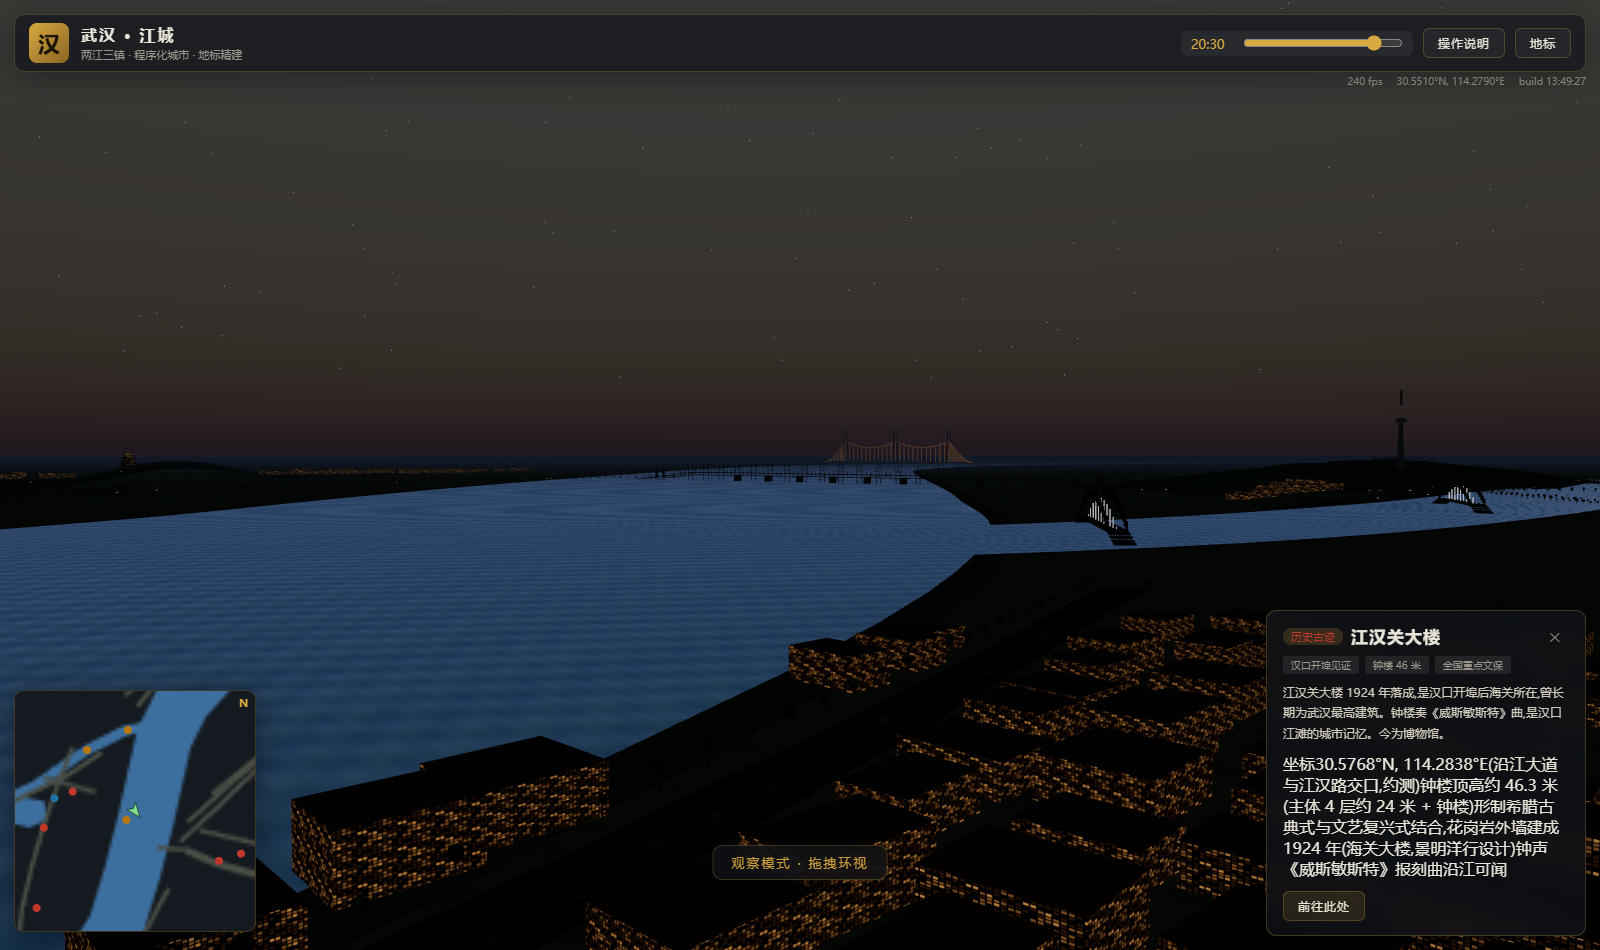
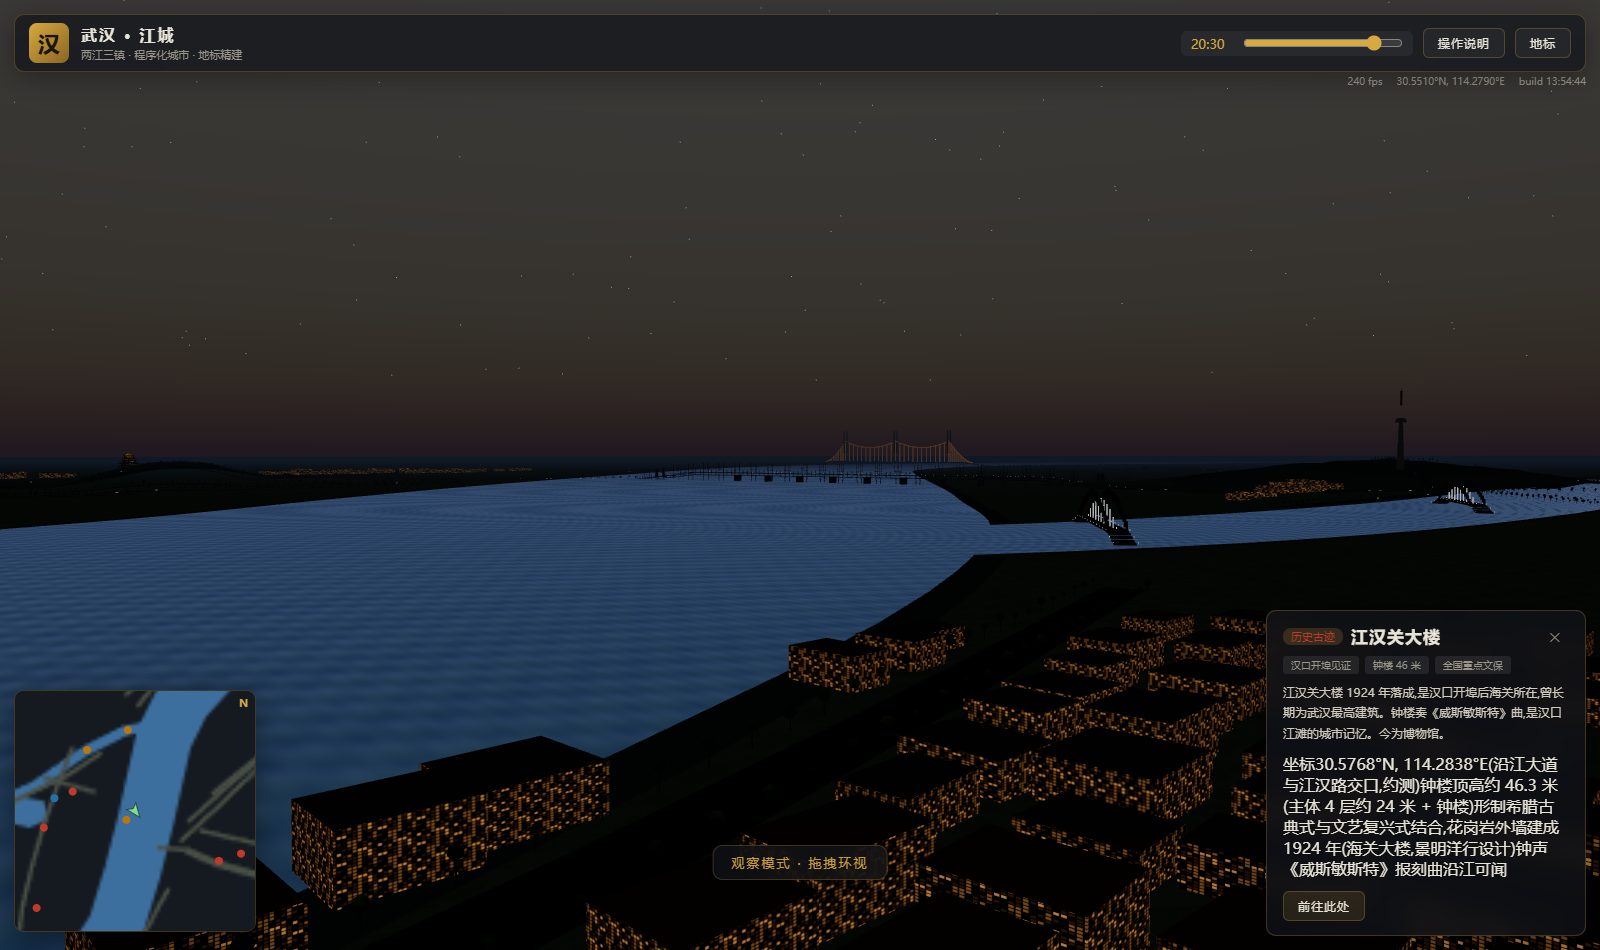
P5: 夜景打磨(路灯/桥灯/塔顶航空灯)+ README + POI 取景自适应

diff --git a/js/main.js b/js/main.js
@@ -4,7 +4,7 @@ import * as THREE from 'three';
 import { OrbitControls } from 'three/addons/OrbitControls.js';
 import { Sky } from 'three/addons/Sky.js';
 import { buildGround, buildMountains, createWaterMaterial, buildWater, buildRoads, terrainHeight } from './world.js';
-import { buildCity, buildTrees, buildCars } from './city.js';
+import { buildCity, buildTrees, buildCars, buildStreetLights } from './city.js';
 import { buildLandmarks, landmarkSites } from './landmarks.js';
 import { buildBridges } from './bridges.js';
 import { createEnvironment } from './environment.js';
@@ -25,7 +25,7 @@ const elSpeedBox = $('#speedBox');
 
 /* ==================== 全局 ==================== */
 let renderer, scene, camera, controls, sky, sunLight, hemi, moonLight, stars;
-let waterMat, waterGroup, roads, city, trees, cars, bridges, landmarks;
+let waterMat, waterGroup, roads, city, trees, cars, bridges, landmarks, lights, beacon;
 let game, hud;
 let env = null;
 let timeHours = 15, autoTime = false;
@@ -143,6 +143,8 @@ function applyTime(hours) {
   city?.setNight(s.night);
   cars?.setNight(s.night);
   landmarks?.setNight(s.night);
+  lights?.setNight(s.night);
+  bridges?.setNight(s.night);
 
   scene.fog.color.copy(FOG_DAY.clone().lerp(FOG_NIGHT, clamp(s.night + s.dusk * 0.5, 0, 1)));
   scene.fog.far = lerp(16000, 9000, s.night);
@@ -186,19 +188,31 @@ step('栽种行道树与樱花', () => {
   scene.add(trees.group);
   console.log(`[GTA-WH] 树木: ${trees.count}`);
 });
-step('放行车流', () => {
+step('放行车流与路灯', () => {
   cars = buildCars(roads.centerlines, 170);
   scene.add(cars.group);
+  lights = buildStreetLights(roads.centerlines);
+  scene.add(lights.group);
+  console.log(`[GTA-WH] 路灯: ${lights.count}`);
+  // 绿地中心塔顶航空障碍灯(红,闪烁)
+  const [gx, gz] = toV2(114.3366, 30.6152);
+  beacon = new THREE.Mesh(
+    new THREE.SphereGeometry(3.2, 10, 8),
+    new THREE.MeshBasicMaterial({ color: 0xff2020 }),
+  );
+  beacon.position.set(gx, Math.max(terrainHeight(gx, gz), 0) + 468, gz);
+  scene.add(beacon);
 });
 step('装配玩法与 HUD', () => {
   hud = initHUD({
     onGoto: (item) => {
-      // 观察模式飞到地标
+      // 观察模式飞到地标(按建筑高度自适应取景:高楼看远,小景看近)
       game.setMode('orbit', true);
       const [x, z] = toV2(item.lon, item.lat);
-      const y = Math.max(terrainHeight(x, z), 0) + (item.heightM || 20) * 1.6 + 60;
-      camera.position.set(x - y * 0.85, y, z + y * 0.85);
-      controls.target.set(x, Math.max(terrainHeight(x, z), 0) + (item.heightM || 20) * 0.5, z);
+      const h = item.heightM || 20;
+      const dist = h > 200 ? h * 2.2 : h * 2.8 + 90;
+      camera.position.set(x - dist * 0.72, Math.max(terrainHeight(x, z), 0) + h * 0.8 + 26, z + dist * 0.78);
+      controls.target.set(x, Math.max(terrainHeight(x, z), 0) + h * 0.45, z);
       controls.update();
     },
     onToggleTour: () => hud.setTour(true),
@@ -248,6 +262,9 @@ function animate() {
 
   // 桥上列车
   for (const u of bridges?.updates || []) u(dt);
+
+  // 塔顶航空障碍灯闪烁
+  if (beacon) beacon.visible = (clock.elapsedTime % 1.6) < 0.9;
 
   // 车流
   cars?.update(dt);

diff --git a/js/city.js b/js/city.js
@@ -3,7 +3,7 @@
 import * as THREE from 'three';
 import { toV2, toV2List, makeRandom, clamp, pointInPolygon, distToPolyline } from './geo.js';
 import { DISTRICTS, RIVER, LAKES, ROADS } from './data.js';
-import { makeFacadeTexture, makeWindowTexture, makeBrickTexture, patchMaterial, instancedBoxes, registerEnv } from './lib.js';
+import { mat, makeFacadeTexture, makeWindowTexture, makeBrickTexture, patchMaterial, instancedBoxes, registerEnv } from './lib.js';
 import { terrainHeight } from './world.js';
 
 const RIVER_PTS = toV2List(RIVER.pts);
@@ -359,6 +359,47 @@ export function buildTrees({ exclusions = [], seed = 4242 } = {}) {
   trunk.castShadow = crown.castShadow = true;
   group.add(trunk, crown);
   return { group, count: n, mats: [trunkMat, crownMat] };
+}
+
+/* ============ 路灯(主干道,夜间点亮) ============ */
+export function buildStreetLights(centerlines, seed = 777) {
+  const rand = makeRandom(seed);
+  const group = new THREE.Group();
+  group.name = 'streetlights';
+  const poles = [], heads = [];
+  for (const l of centerlines) {
+    if (l.w < 24) continue;
+    const pts = l.pts;
+    for (let i = 1; i < pts.length; i++) {
+      const [ax, az] = pts[i - 1], [bx, bz] = pts[i];
+      const d = Math.hypot(bx - ax, bz - az);
+      const n = Math.floor(d / 48);
+      const dx = (bx - ax) / d, dz = (bz - az) / d;
+      for (let k = 0; k < n; k++) {
+        const t = (k + 0.5) / n;
+        const side = ((i + k) % 2 === 0) ? 1 : -1;         // 两侧交替
+        const off = (l.w / 2 + 1.5) * side;
+        const x = ax + (bx - ax) * t - dz * off;
+        const z = az + (bz - az) * t + dx * off;
+        const gy = Math.max(terrainHeight(x, z), 0);
+        poles.push({ x, z, y: gy, w: 0.22, h: 9.5, d: 0.22 });
+        heads.push({ x: x + dz * off * -0.12, z: z - dx * off * -0.12, y: gy + 9.3, w: 1.6, h: 0.5, d: 0.8 });
+      }
+    }
+  }
+  const poleMat = mat('#4d5256', { rough: 0.7, metal: 0.3 });
+  const poleMesh = instancedBoxes(poles, poleMat, { uvU: 4, uvV: 9 });
+  if (poleMesh) { poleMesh.castShadow = false; group.add(poleMesh); }
+
+  const headMat = mat('#fff1c8', { emissive: '#ffdf9e', emissiveIntensity: 0.05, rough: 0.4 });
+  headMat.userData.nightGlow = 3.4;
+  const headMesh = instancedBoxes(heads, headMat, { uvU: 2, uvV: 2 });
+  if (headMesh) { headMesh.castShadow = false; group.add(headMesh); }
+
+  return {
+    group, count: poles.length,
+    setNight(k) { headMat.emissiveIntensity = 0.05 + k * 3.4; },
+  };
 }
 
 /* ============ 车流 ============ */

diff --git a/js/bridges.js b/js/bridges.js
@@ -377,16 +377,44 @@ function buildArchBridge(br, group) {
   return { br, info, deckY };
 }
 
+/* ==================== 桥体夜景灯带 ==================== */
+/** 沿桥面两侧拉两串暖光点(灯柱间距 24 m,用小实例块) */
+function deckLights(info, deckY, roadW, group, lightAgg) {
+  const items = [];
+  for (const side of [-1, 1]) {
+    const off = (roadW / 2 - 0.6) * side;
+    const n = Math.floor(info.L / 24);
+    for (let i = 0; i <= n; i++) {
+      const t = i / n;
+      const x = info.ax + info.dx * info.L * t + info.px * off;
+      const z = info.az + info.dz * info.L * t + info.pz * off;
+      items.push({ x, z, y: deckY(t) + 1.5, w: 0.5, h: 1.4, d: 0.5, rot: Math.atan2(info.dx, info.dz) });
+    }
+  }
+  const lm = mat('#ffe2a8', { emissive: '#ffcf82', emissiveIntensity: 0.06, rough: 0.4 });
+  lm.userData.nightGlow = 3.6;
+  lightAgg.push(lm);
+  const mesh = instancedBoxes(items, lm, { uvU: 2, uvV: 2 });
+  if (mesh) { mesh.castShadow = false; group.add(mesh); }
+}
+
 /* ==================== 汇总 ==================== */
 export function buildBridges() {
   const group = new THREE.Group();
   group.name = 'bridges';
   const updates = [];
+  const lightMats = [];
   for (const br of BRIDGES) {
+    const info = axisInfo(br);
+    const deckY = makeDeckY(br, info);
     if (br.kind === 'truss') buildTrussBridge(br, group, updates);
     else if (br.kind === 'cablestayed') buildCableStayed(br, group);
     else if (br.kind === 'suspension3') buildSuspension3(br, group);
     else if (br.kind === 'arch') buildArchBridge(br, group);
+    deckLights(info, deckY, br.kind === 'truss' ? 22 : 26, group, lightMats);
   }
-  return { group, updates };
+  return {
+    group, updates,
+    setNight(k) { for (const m of lightMats) m.emissiveIntensity = 0.06 + k * 3.6; },
+  };
 }

diff --git a/index.html b/index.html
@@ -4,6 +4,7 @@
   <meta charset="UTF-8" />
   <meta name="viewport" content="width=device-width, initial-scale=1, maximum-scale=1, user-scalable=no" />
   <title>武汉 · 江城 ｜ GTA-WH</title>
+  <link rel="icon" href="data:," />
   <link rel="stylesheet" href="./css/style.css" />
   <script type="importmap">
   {

diff --git a/scripts/export_coords.py b/scripts/export_coords.py
@@ -1,0 +1,96 @@
+"""Consolidate every Wikidata page we fetched into one machine-readable coordinate file.
+
+Input  : artifacts/wikidata/{p*,e*,search/s*} produced by the fetch_*.sh scripts
+Output : data/wikidata-coords.json  — one entry per landmark, deduplicated by QID,
+         restricted to the Wuhan bounding box, with the source QID recorded.
+
+The file is meant to be dropped straight into another pipeline: `name` is the
+Chinese label when available, `lon`/`lat` are WGS84 degrees.
+"""
+from __future__ import annotations
+
+import glob
+import json
+import math
+import os
+from pathlib import Path
+
+ROOT = Path(__file__).resolve().parent.parent
+OUT = ROOT / "data" / "wikidata-coords.json"
+
+# Wuhan default search window — wide enough to keep 天河机场/盘龙城 out on purpose
+# while still catching every landmark in the playable core.
+CORE = {"lon": (114.15, 114.50), "lat": (30.42, 30.72)}
+
+
+def load_pages(pattern: str) -> dict[str, dict]:
+    """Return {qid: entity} for a family of wbgetentities pages."""
+    merged: dict[str, dict] = {}
+    for page in sorted(glob.glob(str(ROOT / pattern))):
+        try:
+            body = json.loads(Path(page).read_text(encoding="utf-8"))
+        except json.JSONDecodeError:
+            continue  # truncated download; the next run may fix it
+        for qid, item in (body.get("entities") or {}).items():
+            if not isinstance(item, dict) or not str(qid).startswith("Q"):
+                continue
+            merged[qid] = {"item": item, "page": os.path.basename(page)}
+    return merged
+
+
+def extract(entity: dict) -> dict | None:
+    item = entity["item"]
+    coord = None
+    for claim in (item.get("claims") or {}).get("P625", []):
+        dv = claim.get("mainsnak", {}).get("datavalue", {})
+        if dv.get("type") == "globecoordinate":
+            coord = dv["value"]
+            break
+    if not coord:
+        return None
+    labels = item.get("labels") or {}
+    desc = item.get("descriptions") or {}
+    return {
+        "qid": item["id"],
+        "name": labels.get("zh", {}).get("value") or labels.get("zh-hans", {}).get("value"),
+        "name_en": labels.get("en", {}).get("value"),
+        "desc": desc.get("zh", {}).get("value") or desc.get("en", {}).get("value"),
+        "lat": round(coord["latitude"], 6),
+        "lon": round(coord["longitude"], 6),
+    }
+
+
+def main() -> None:
+    entities: dict[str, dict] = {}
+    for pattern in ("artifacts/wikidata/p*.json", "artifacts/wikidata/e*.json",
+                    "artifacts/wikidata/en/e*.json", "artifacts/wikidata/search/s*.json"):
+        entities.update(load_pages(pattern))
+
+    rows = []
+    for entity in entities.values():
+        row = extract(entity)
+        if not row:
+            continue
+        if not (CORE["lon"][0] < row["lon"] < CORE["lon"][1]
+                and CORE["lat"][0] < row["lat"] < CORE["lat"][1]):
+            continue  # e.g. 长江 measured at the river source in Qinghai
+        rows.append(row)
+
+    rows.sort(key=lambda r: (r["name"] is None, r["name"] or "", r["qid"]))
+    payload = {
+        "crs": "WGS84 (EPSG:4326)",
+        "source": "Wikidata coordinate location (P625) via the MediaWiki Action API",
+        "license": "Wikidata facts are CC0; keep attribution in data/ATTRIBUTION.md",
+        "core_bbox": CORE,
+        "count": len(rows),
+        "landmarks": rows,
+    }
+    OUT.parent.mkdir(parents=True, exist_ok=True)
+    OUT.write_text(json.dumps(payload, ensure_ascii=False, indent=2), encoding="utf-8")
+    print(f"wrote {OUT.relative_to(ROOT)} with {len(rows)} landmarks")
+    for r in rows:
+        print(f'  {r["lat"]:.5f},{r["lon"]:.5f}  {r["qid"]:>10}  {r["name"]}')
+
+
+if __name__ == "__main__":
+    main()

diff --git a/README.md b/README.md
@@ -1,0 +1,83 @@
+# GTA-WH · 武汉江城 · 开放世界原型
+
+> 参照 [GTA_SZ](https://github.com/linranff/GTA_SZ)(Babylon.js 深圳)与本地 GTA-NJ(Three.js 南京)的技术路线,
+> 为**武汉**打造的浏览器端开放世界游戏原型:**两江三镇、16 处地标精建、5 座大桥、可驾驶可步行可飞行**。
+
+无构建步骤、无 CDN 依赖 —— 任意静态服务器打开 `index.html` 即玩。
+
+```bash
+node tools/serve.mjs          # → http://localhost:8140/
+# 或 python -m http.server 8080
+```
+
+> 必须通过 HTTP 访问(ES Module 跨域限制),`file://` 打开无效。
+
+---
+
+## 玩法
+
+| 键 | 功能 | | 键 | 功能 |
+|---|---|---|---|---|
+| **1 / 2 / 3** | 观察 / 驾驶 / 无人机 | | **F** | 上下车 |
+| **W A S D** | 油门转向 / 行走 | | **Space** | 手刹 / 跳 |
+| **Shift** | 冲刺(驾驶漂移) | | **Q / E** | 无人机升降 |
+| **N** | 昼夜自动流转 | | **M** | 小地图缩放 |
+| **L** | 地标索引 | | **H** | 操作说明 |
+| 顶部滑杆 | 调时间 | | 鼠标拖拽 | 环视/无人机转向 |
+
+- **驾驶**:街机手感(加速/转向/Shift 漂移),可开上**武汉长江大桥**看火车从下层驶过
+- **打卡**:靠近地标自动弹卡(名称/史实/实测尺寸),集齐 16+5 处
+- **观光线**:地标面板「观光任务」开启 10 站武汉三镇观光线
+- **昼夜**:拖动时间滑杆或按 N,看黄鹤楼金顶泛光、路灯桥灯点亮、江滩夜色
+
+## 城市(全部程序化生成,坐标为公开地图约测值)
+
+- **骨架**:长江(1.1km 级江面)+ 汉江 + 东湖双湖 + 沙湖/南湖/月湖/水果湖 + 楚河
+- **山**:蛇山/龟山/珞珈山/磨山/洪山/凤凰山/喻家山
+- **路**:沿江大道/中山大道/解放大道/武珞路—珞喻路/临江大道/徐东大街等 27 条主干
+- **16 地标**:黄鹤楼(五层攒尖 51.4m)、江汉关、龟山电视塔、晴川阁、归元寺、古琴台、
+  省博物馆(编钟阵列)、楚河汉街、汉秀红灯笼、绿地中心(475m Lathe)、武大樱顶、磨山楚天台、
+  光谷星河、江汉路牌坊、汉口江滩、昙华林、红楼
+- **5 桥**:武汉长江大桥(公铁双层桁架+动画列车+桥头堡)、长江二桥(斜拉)、鹦鹉洲(三塔悬索·国际橙)、
+  江汉桥、晴川桥(红拱)
+- **12 分区**:汉口里分红砖/江汉路民国/二七滨江天际线/武昌老城坡顶/光谷玻璃塔/武大绿瓦/青山红钢城…
+
+## 技术要点
+
+- **1 单位 = 1 米全真实尺度**,高斯-克吕格投影(原点 114.295E/30.560N),米制物理
+- 程序化城市:分区网格 + 水域/山体/道路/地标占地排他,建筑 InstancedMesh(逐实例 UV 重映射)
+- 中式建筑构件库(arch.js):举折/反宇/翼角高度场屋顶 + 正脊/戗脊/斗拱/须弥座(黄鹤楼/晴川阁/归元寺用)
+- 桥面高程剖面 `bridgeHeightAt()`:车辆可查任意点的桥面高度 → 大桥可行驶
+- 昼夜:程序化天空 → PMREM 共享 IBL,窗光/路灯/桥灯/车灯/塔顶航空灯随夜色点亮
+- 水面:自定义 shader(波浪法线 + 菲涅尔 + 天空渐变反射 + 太阳高光)
+
+## 工具链
+
+```bash
+node --experimental-vm-modules tools/check.mjs   # 语法预检(vm.SourceTextModule,防白屏)
+node tools/smoke.mjs                             # 148 项数据/几何冒烟
+node tools/heights.mjs                           # 地标模型高度 vs 实测对照(19/19)
+node tools/mapplot.mjs                           # 骨架平面真值图 PNG
+node tools/shot.mjs                              # 无头浏览器实测 + 5 视角截图
+```
+
+## 目录
+
+```
+index.html          入口 + HUD          js/geo.js         高斯投影/噪声/太阳
+css/style.css       玻璃拟态 UI          js/data.js        武汉唯一数据源
+js/world.js         地形/水面/道路       js/city.js        三镇建筑/树/车流/路灯
+js/arch.js          中式构件库           js/landmarks.js   16 地标
+js/bridges.js       5 桥 + 桥面查询      js/vehicle.js     车辆物理
+js/player.js        步行小人             js/flycam.js      无人机
+js/game.js          模式状态机           js/hud.js         小地图/卡片/任务
+js/main.js          装配 + 主循环         vendor/           three.js 本地化
+tools/              验证工具链           docs/             计划与截图
+```
+
+## 数据口径与致谢
+
+- 坐标为 Google Maps / 公开地图参考的**约测值**(误差 ±50–200m),地标尺寸为公开资料口径,
+  不做测绘级 1:1 宣称;详见 `js/data.js` 各条 spec。
+- [GTA_SZ](https://github.com/linranff/GTA_SZ)(MIT)的「本地原点+统一缩放 / 程序化底图+地标精建 / 昼夜 IBL」思路致谢
+- THREE.js MIT(vendor 本地化);水面 shader 与城市 AO 思路参照本地 GTA-NJ 项目
